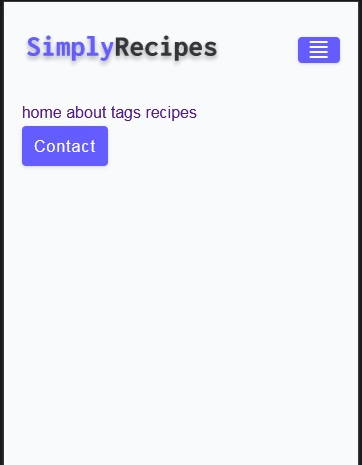
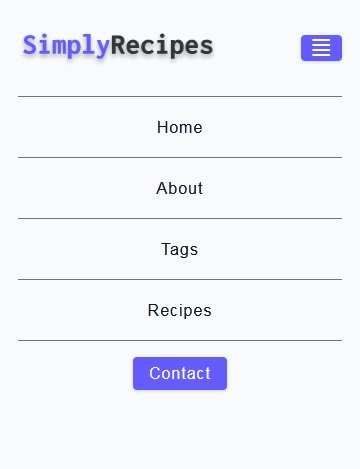
nav-header finalizado para dispositivos moviles

diff --git a/css/main.css b/css/main.css
@@ -273,16 +273,54 @@ Navbar
   align-items: center;
 }
 
+.nav-logo {
+  display: flex;
+  align-items: center; /* 1ra Forma de centrar el logo verticalmente */
+}
+
 .nav-header img {
   width: 200px;
-  display: block;
+  /* display: block; 2da Forma de centrar el logo verticalmente*/
 }
 
 .nav-btn {
   padding: 0.15rem 0.75rem;
+  letter-spacing: 0;
 }
 
 .nav-btn i {
   font-size: 1.25rem;
 }
+
+.nav-links {
+  /* background: rgb(204, 156, 53); */
+  display: flex;
+  flex-direction: column;
+  /* Pendiente */
+}
+
+.nav-link {
+  display: block;
+  text-align: center;
+  text-transform: capitalize;
+  color: var(--grey-900);
+  letter-spacing: var(--letterSpacing);
+  padding: 1rem 0;
+  border-top: 1px solid var(--grey-500);
+  transition: var(--transition);
+}
+
+.nav-link:hover {
+  color: var(--primary-500);
+}
+
+.contact-link a {
+  padding: 0.15rem 1rem;
+}
+
+
+
+
+
+
 
